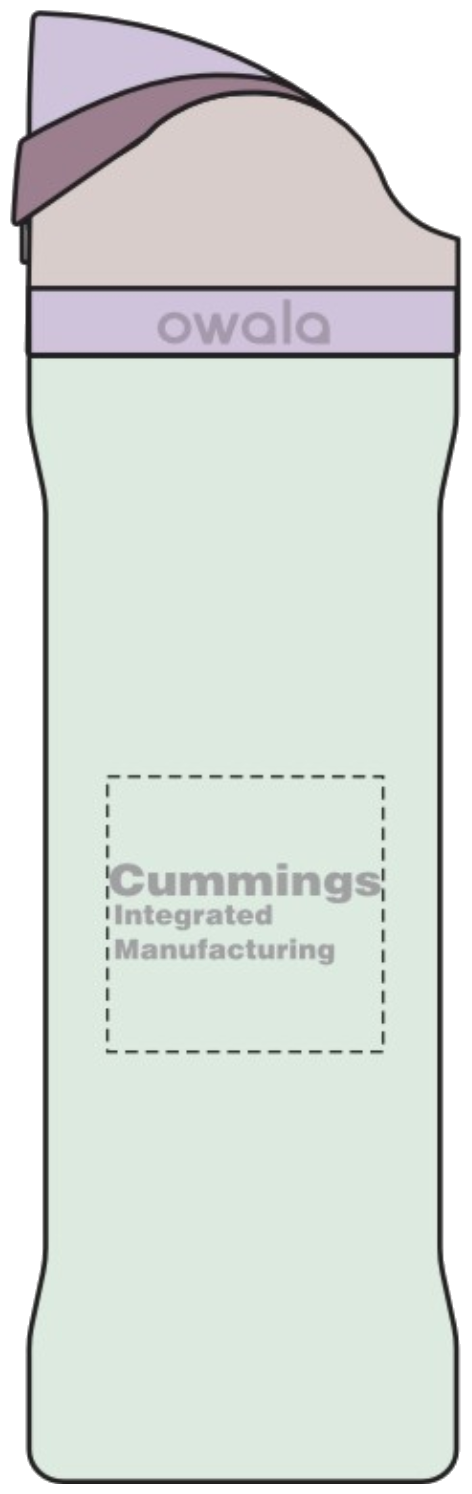
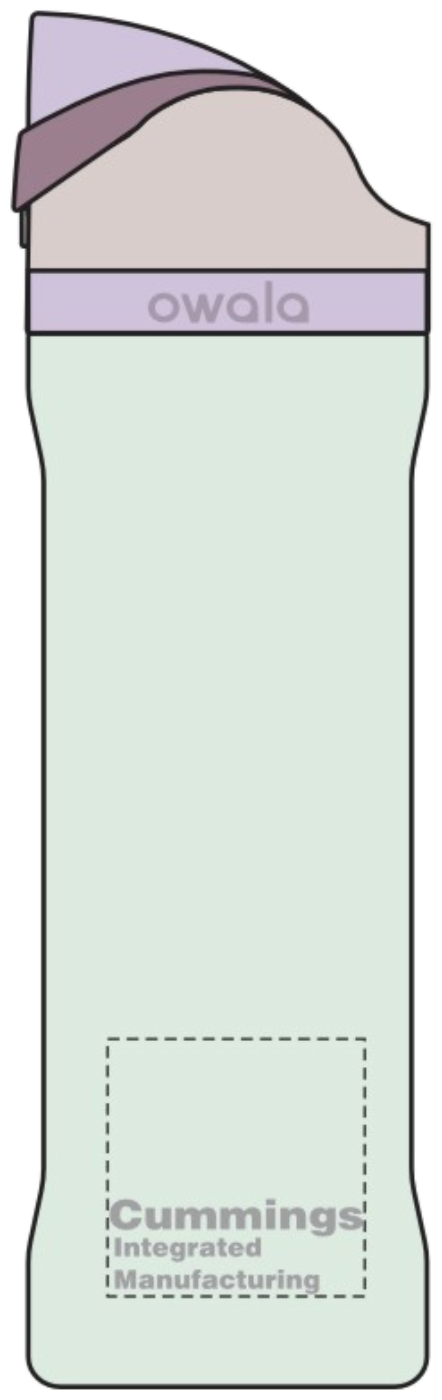
Cummings Owalas #3546: update proofs to new 4imprint art (SO 32627521)
Claude-Session: https://claude.ai/code/session_01V3xXrQAiQwZHT8BU6u4TCU

diff --git a/p/d6c3d375e4f5/index.html b/p/d6c3d375e4f5/index.html
@@ -159,11 +159,11 @@ footer{font-size:13px;color:var(--muted);text-align:center}
 const API = "https://script.google.com/macros/s/AKfycbxVLQipOIyMsk7jnbk66CC6cBPzfjtOiH0F7s0GzUrSK05MuNX7hos9-oTDu4gYlClJCg/exec";
 const ORDER = { id: "cummings-owalas-d6c3d375e4f5", name: "Cummings Owalas #3546" };
 const ITEMS = [
-  {"id": "green-house", "name": "Owala FreeSip 24 oz - Green House/Light Gray", "specs": [], "img": "img/green-house.png"},
-  {"id": "blue-oasis", "name": "Owala FreeSip 24 oz - Blue Oasis/ Gray", "specs": [], "img": "img/blue-oasis.png"},
-  {"id": "nailed-it", "name": "Owala FreeSip 24 oz - Nailed It/Charcoal Gray", "specs": [], "img": "img/nailed-it.png"},
-  {"id": "rock-on", "name": "Owala FreeSip 24 oz - Rock On/Charcoal", "specs": [], "img": "img/rock-on.png"},
-  {"id": "coastal-mist", "name": "Owala FreeSip 24 oz - Coastal Mist", "specs": [], "img": "img/coastal-mist.png"}
+  {"id": "green-house", "name": "Owala FreeSip 24 oz - Green House/Light Gray", "specs": [], "img": "img/green-house.png?v=2"},
+  {"id": "blue-oasis", "name": "Owala FreeSip 24 oz - Blue Oasis/ Gray", "specs": [], "img": "img/blue-oasis.png?v=2"},
+  {"id": "nailed-it", "name": "Owala FreeSip 24 oz - Nailed It/Charcoal Gray", "specs": [], "img": "img/nailed-it.png?v=2"},
+  {"id": "rock-on", "name": "Owala FreeSip 24 oz - Rock On/Charcoal", "specs": [], "img": "img/rock-on.png?v=2"},
+  {"id": "coastal-mist", "name": "Owala FreeSip 24 oz - Coastal Mist", "specs": [], "img": "img/coastal-mist.png?v=2"}
 ];
 
 const state = {};      // id -> saved record from the store
